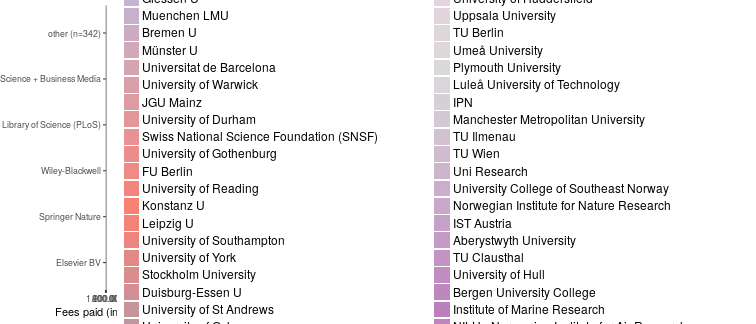
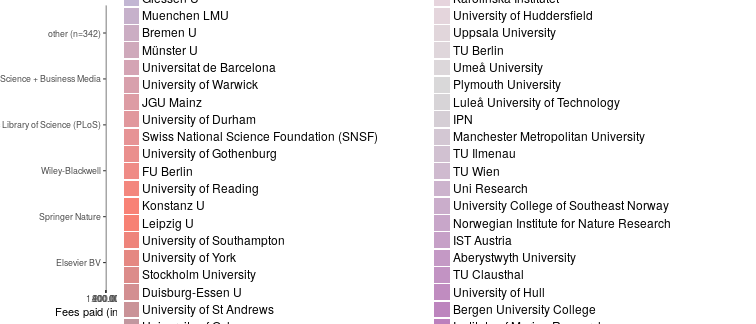
post: tu darmstadt joins OpenAPC

Changed region(s): [[0.578, 0.0, 0.8823, 0.8642], [0.578, 0.8951, 0.791, 1.0], [0.791, 0.9877, 0.8519, 1.0]]

diff --git a/about.md b/about.md
@@ -34,6 +34,7 @@ So far, the following German universities have agreed to share information on pa
 - [Technische Universität Berlin](http://www.ub.tu-berlin.de/publikationsfonds/)
 - [Technische Universität Braunschweig](https://ub.tu-braunschweig.de/publikationsfonds/)
 - [Technische Universität Chemnitz](https://www.tu-chemnitz.de/ub/publizieren/openaccess/index.html.en)
+- [Technische Universität Darmstadt](https://www.ulb.tu-darmstadt.de/service/elektronisches_publizieren/oa_publikationsfond/index.en.jsp)
 - [Technische Universität Dortmund](http://www.ub.tu-dortmund.de/open-access/index.html)
 - [Technische Universität Dresden](http://www.slub-dresden.de/service/schreiben-publizieren/open-access-service/publikationsfonds/)
 - [Technische Universität Ilmenau](https://www.tu-ilmenau.de/ub/service/open-access/oa-publikationsfonds/)
@@ -221,13 +222,13 @@ Jisc Collections released data on APC payments made by UK higher education insti
 
 Information on both open access journal articles and open access publication of articles in toll-access journals ("hybrid") are provided.
 
-In total,  95 669 956 € for  50 170 articles were paid by the participating unviversities. Average  fee is 1 906.9 € and the median 1 710 €.
+In total,  95 711 547 € for  50 205 articles were paid by the participating unviversities. Average  fee is 1 906.4 € and the median 1 709 €.
 
 ### Open Access Journals
 
 
 
-At the moment, the dataset releases information on 29 095 articles in open access journals which charge publication fees. Total expenditure amounts to  43 151 541 €. Average  fee is 1 483.1 € and the median 1 406 €.
+At the moment, the dataset releases information on 29 130 articles in open access journals which charge publication fees. Total expenditure amounts to  43 193 132 €. Average  fee is 1 482.8 € and the median 1 405 €.
 
 View dataset on [GitHub](https://github.com/OpenAPC/openapc-de/blob/master/data/apc_de.csv).
 
@@ -337,6 +338,7 @@ View dataset on [GitHub](https://github.com/OpenAPC/openapc-de/blob/master/data/
 |TU Braunschweig                                                 |       33|            40,822|         1,237|  1,531|
 |TU Chemnitz                                                     |       73|            84,652|         1,160|  1,289|
 |TU Clausthal                                                    |       12|            11,023|           919|    918|
+|TU Darmstadt                                                    |       35|            41,591|         1,188|  1,258|
 |TU Dresden                                                      |      195|           274,112|         1,406|  1,449|
 |TU Ilmenau                                                      |       26|            31,545|         1,213|  1,408|
 |TU Muenchen                                                     |      858|         1,147,525|         1,337|  1,462|
@@ -569,7 +571,7 @@ For data enrichment, sample visualisations and explorations we build on the work
 
 ## Contributors
 
-Jens Harald Aasheim, Benjamin Ahlborn, Chelsea Ambler, Magdalena Andrae, Jochen Apel, Hans-Georg Becker, Roland Bertelmann, Daniel Beucke, Peter Blume, Ute Blumtritt, Sabine Boccalini, Kim Braun, Christoph Broschinski, Dorothea Busjahn, Pablo de Castro, Amanda Cullin, Patrick Danowski, Gernot Deinzer, Julia Dickel, Andrea Dorner, Stefan Drößler, Karin Eckert, Carsten Elsner, Clemens Engelhardt, Inken Feldsien-Sudhaus, Fabian Franke, Claudia Frick, Paola Galimberti, Agnes Geißelmann, Kai Karin Geschuhn, Steffi Grimm, Christian Gutknecht, Uli Hahn, Kristina Hanig, Dominik Hell, Ulrich Herb, Ute Holzwarth, Christie Hurrell, Doris Jaeger, Najko Jahn, Alexandra Jobmann, Andreas Kennecke, Robert Kiley, Stephanie Kroiss, Gerrit Kuehle, Ignasi Labastida i Juan, Stuart Lawson, Kathrin Lucht-Roussel, Frank Lützenkirchen, Anna Marini, Anja Oberländer, Vitali Peil, Dirk Pieper, Tobias Pohlmann, Markus Putnings, Annette Scheiner, Michael Schlachter, Birgit Schlegel, Adriana Sikora, Susanne Stemmler, Matti Stöhr, Edith Reschke, Katharina Rieck, Florian Ruckelshausen, Ilka Rudolf, Marco Tullney, Astrid Vieler, Viola Voß, Marco Winkler, Sabine Witt, Philip Young
+Jens Harald Aasheim, Benjamin Ahlborn, Chelsea Ambler, Magdalena Andrae, Jochen Apel, Hans-Georg Becker, Roland Bertelmann, Daniel Beucke, Peter Blume, Ute Blumtritt, Sabine Boccalini, Kim Braun, Christoph Broschinski, Dorothea Busjahn, Pablo de Castro, Amanda Cullin, Patrick Danowski, Gernot Deinzer, Julia Dickel, Andrea Dorner, Stefan Drößler, Karin Eckert, Carsten Elsner, Clemens Engelhardt, Inken Feldsien-Sudhaus, Fabian Franke, Claudia Frick, Paola Galimberti, Agnes Geißelmann, Kai Karin Geschuhn, Steffi Grimm, Christian Gutknecht, Uli Hahn, Kristina Hanig, Dominik Hell, Ulrich Herb, Stephanie Herzog, Ute Holzwarth, Christie Hurrell, Doris Jaeger, Najko Jahn, Alexandra Jobmann, Andreas Kennecke, Robert Kiley, Gerrit Kuehle, Ignasi Labastida i Juan, Gerald Langhanke, Stuart Lawson, Kathrin Lucht-Roussel, Frank Lützenkirchen, Anna Marini, Anja Oberländer, Vitali Peil, Dirk Pieper, Tobias Pohlmann, Markus Putnings, Annette Scheiner, Michael Schlachter, Birgit Schlegel, Adriana Sikora, Susanne Stemmler, Matti Stöhr, Edith Reschke, Katharina Rieck, Florian Ruckelshausen, Ilka Rudolf, Marco Tullney, Astrid Vieler, Viola Voß, Marco Winkler, Sabine Witt, Philip Young
 
 ## Contact
 

diff --git a/_posts/2018-04-13-darmstadt.md b/_posts/2018-04-13-darmstadt.md
@@ -1,0 +1,54 @@
+---
+layout:     post
+author:     Christoph Broschinski
+author_lnk: https://github.com/cbroschinski
+title:      TU Darmstadt joins OpenAPC
+date:       2018-04-13 08:00:00
+summary:    
+categories: [general, openAPC]
+comments: true
+---
+
+
+
+
+We welcome the [Technische Universität Darmstadt](https://www.tu-darmstadt.de) as new contributing institution!
+
+The [University and State Library Darmstadt ](https://www.ulb.tu-darmstadt.de/service/start/index.en.jsp) (ULB) is in charge of the [University's Open Access Publishing Fund](https://www.ulb.tu-darmstadt.de/service/elektronisches_publizieren/oa_publikationsfond/index.en.jsp), which is supported under the [DFG's Open Access Publishing Programme](http://www.dfg.de/en/research_funding/programmes/infrastructure/lis/funding_opportunities/open_access/).
+
+Contact Person is [Gerald Langhanke](mailto:gerald.langhanke@ulb.tu-darmstadt.de).
+
+## Cost data
+
+
+
+The initial datasets provided by the ULB covers publication fees for 35 articles published in 2017. Total expenditure amounts to 41 591€ and the average fee is 1 188€.
+
+
+|                                 | Articles| Fees paid in EURO| Mean Fee paid|
+|:--------------------------------|--------:|-----------------:|-------------:|
+|Springer Nature                  |       14|             19032|          1359|
+|MDPI AG                          |       10|              9369|           937|
+|Frontiers Media SA               |        3|              3989|          1330|
+|Public Library of Science (PLoS) |        3|              3834|          1278|
+|Copernicus GmbH                  |        1|              1620|          1620|
+|IOP Publishing                   |        1|              1014|          1014|
+|PeerJ                            |        1|               722|           722|
+|Walter de Gruyter GmbH           |        1|               190|           190|
+|Wiley-Blackwell                  |        1|              1820|          1820|
+
+## Overview
+
+A detailed analysis of the contributed data provides the following overview:
+
+### Fees paid per publisher (in EURO)
+
+![plot of chunk tree_darmstadt_2018_04_13_full](/figure/tree_darmstadt_2018_04_13_full-1.png)
+
+###  Average costs per year (in EURO)
+
+![plot of chunk box_darmstadt_2018_04_13_year_full](/figure/box_darmstadt_2018_04_13_year_full-1.png)
+
+###  Average costs per publisher (in EURO)
+
+![plot of chunk box_darmstadt_2018_04_13_publisher_full](/figure/box_darmstadt_2018_04_13_publisher_full-1.png)
